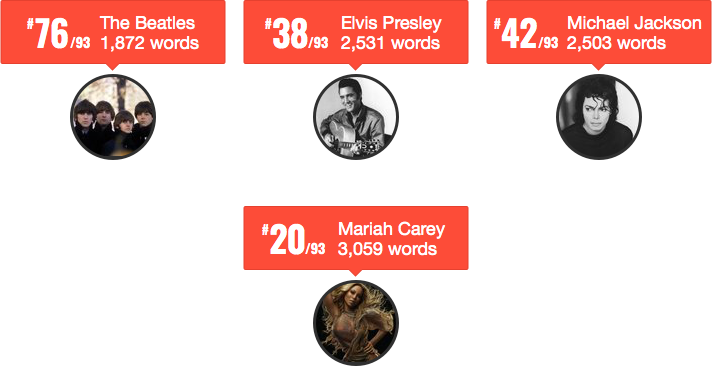
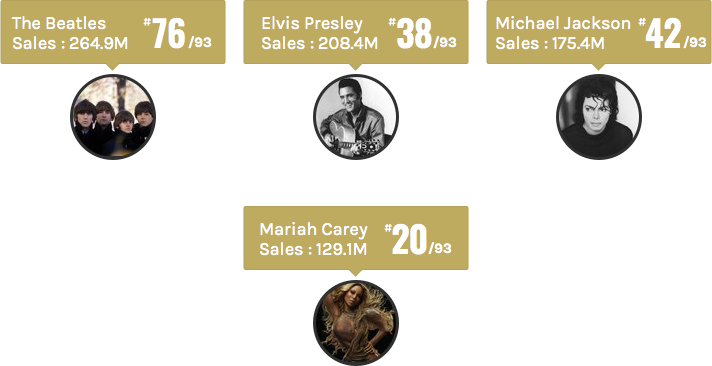
Added new kiss image which includes the sales

Changed region(s): [[0.0, 0.0, 1.0, 0.2104], [0.3399, 0.541, 0.6798, 0.7514]]

diff --git a/sass/styles.sass b/sass/styles.sass
@@ -6,8 +6,8 @@
 @import "genrePlotStyles.sass"
 
 // Import the fonts
-// @import "http://fonts.googleapis.com/css?family=Oswald:400,700"
-// @import "http://fonts.googleapis.com/css?family=Karla:700,400"
+@import "http://fonts.googleapis.com/css?family=Oswald:400,700"
+@import "http://fonts.googleapis.com/css?family=Karla:700,400,400italic"
 
 
 // Color Varaibles

diff --git a/css/styles.css b/css/styles.css
@@ -1,5 +1,7 @@
 @import url(tipsy.css);
 @import url(jquery.autocomplete.css);
+@import "http://fonts.googleapis.com/css?family=Oswald:400,700";
+@import "http://fonts.googleapis.com/css?family=Karla:700,400,400italic";
 #vocab_plot_wrapper {
   min-height: 700px;
   max-height: 1000px;
